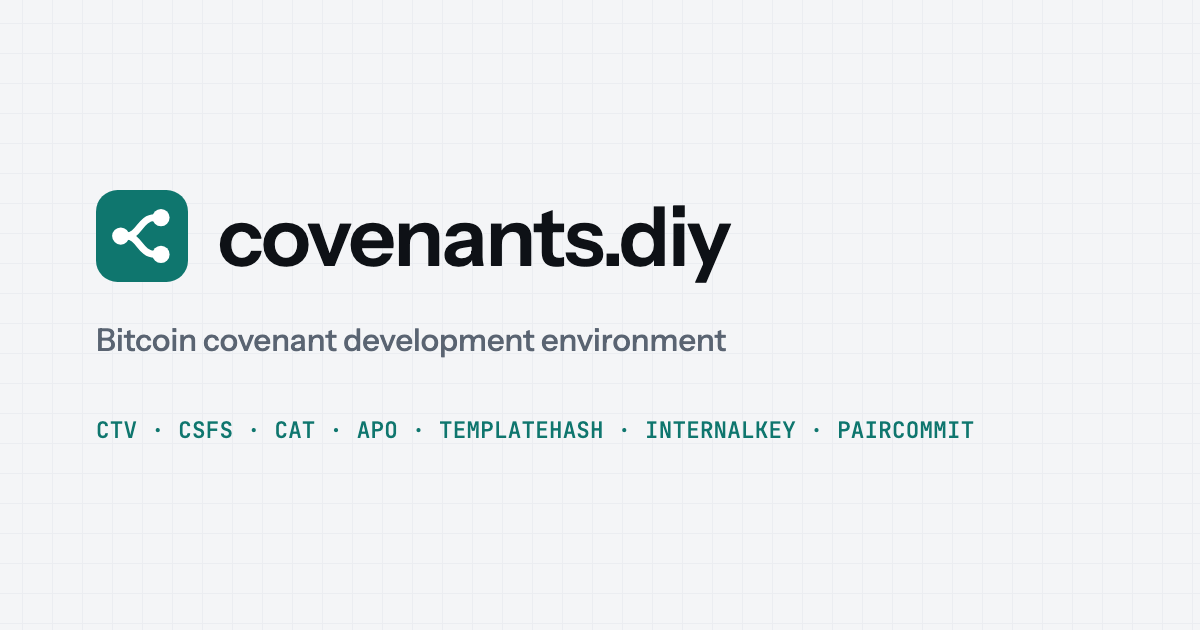
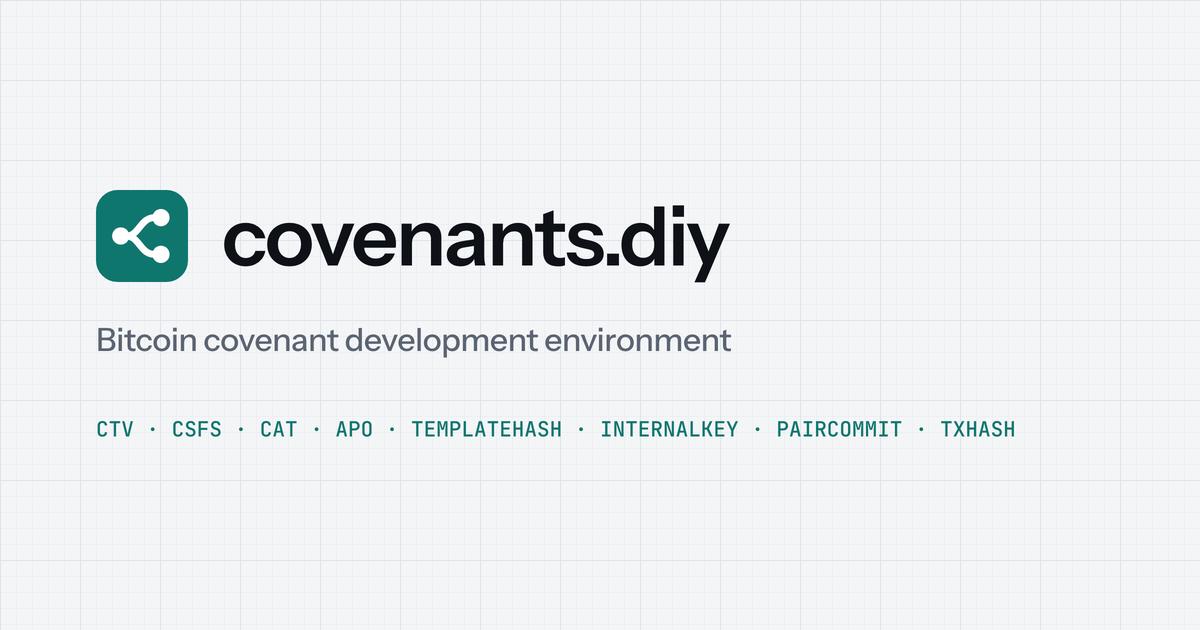
chore(web): list OP_TXHASH and redraw the card
The inline JSON-LD changed, so the script-src hash is recomputed with it.

Changed region(s): [[0.0925, 0.5127, 0.6167, 0.573], [0.185, 0.3317, 0.6167, 0.4222], [0.0617, 0.6635, 0.8633, 0.6937]]

diff --git a/web/index.html b/web/index.html
@@ -23,7 +23,7 @@
     <meta property="og:image" content="https://covenants.diy/og.png" />
     <meta property="og:image:width" content="1200" />
     <meta property="og:image:height" content="630" />
-    <meta property="og:image:alt" content="covenants.diy: a node editor for Bitcoin covenant scripts" />
+    <meta property="og:image:alt" content="covenants.diy, a Bitcoin covenant development environment" />
     <meta name="twitter:card" content="summary_large_image" />
     <meta name="twitter:title" content="covenants.diy · Bitcoin covenant development environment" />
     <meta
@@ -53,7 +53,8 @@
           "ANYPREVOUT (BIP 118)",
           "OP_TEMPLATEHASH (BIP 446)",
           "OP_INTERNALKEY (BIP 349)",
-          "OP_PAIRCOMMIT (BIP 442)"
+          "OP_PAIRCOMMIT (BIP 442)",
+          "OP_TXHASH (BIP 346)"
         ]
       }
     </script>
@@ -128,7 +129,7 @@
           assembles the tapscript, computes the sighash, and steps through script execution, entirely in the browser.
           Signet and regtest only.
         </p>
-        <p class="ops">CTV · CSFS · CAT · APO · TEMPLATEHASH · INTERNALKEY · PAIRCOMMIT</p>
+        <p class="ops">CTV · CSFS · CAT · APO · TEMPLATEHASH · INTERNALKEY · PAIRCOMMIT · TXHASH</p>
         <p class="quiet">Loading the editor…</p>
         <noscript>
           <p>
